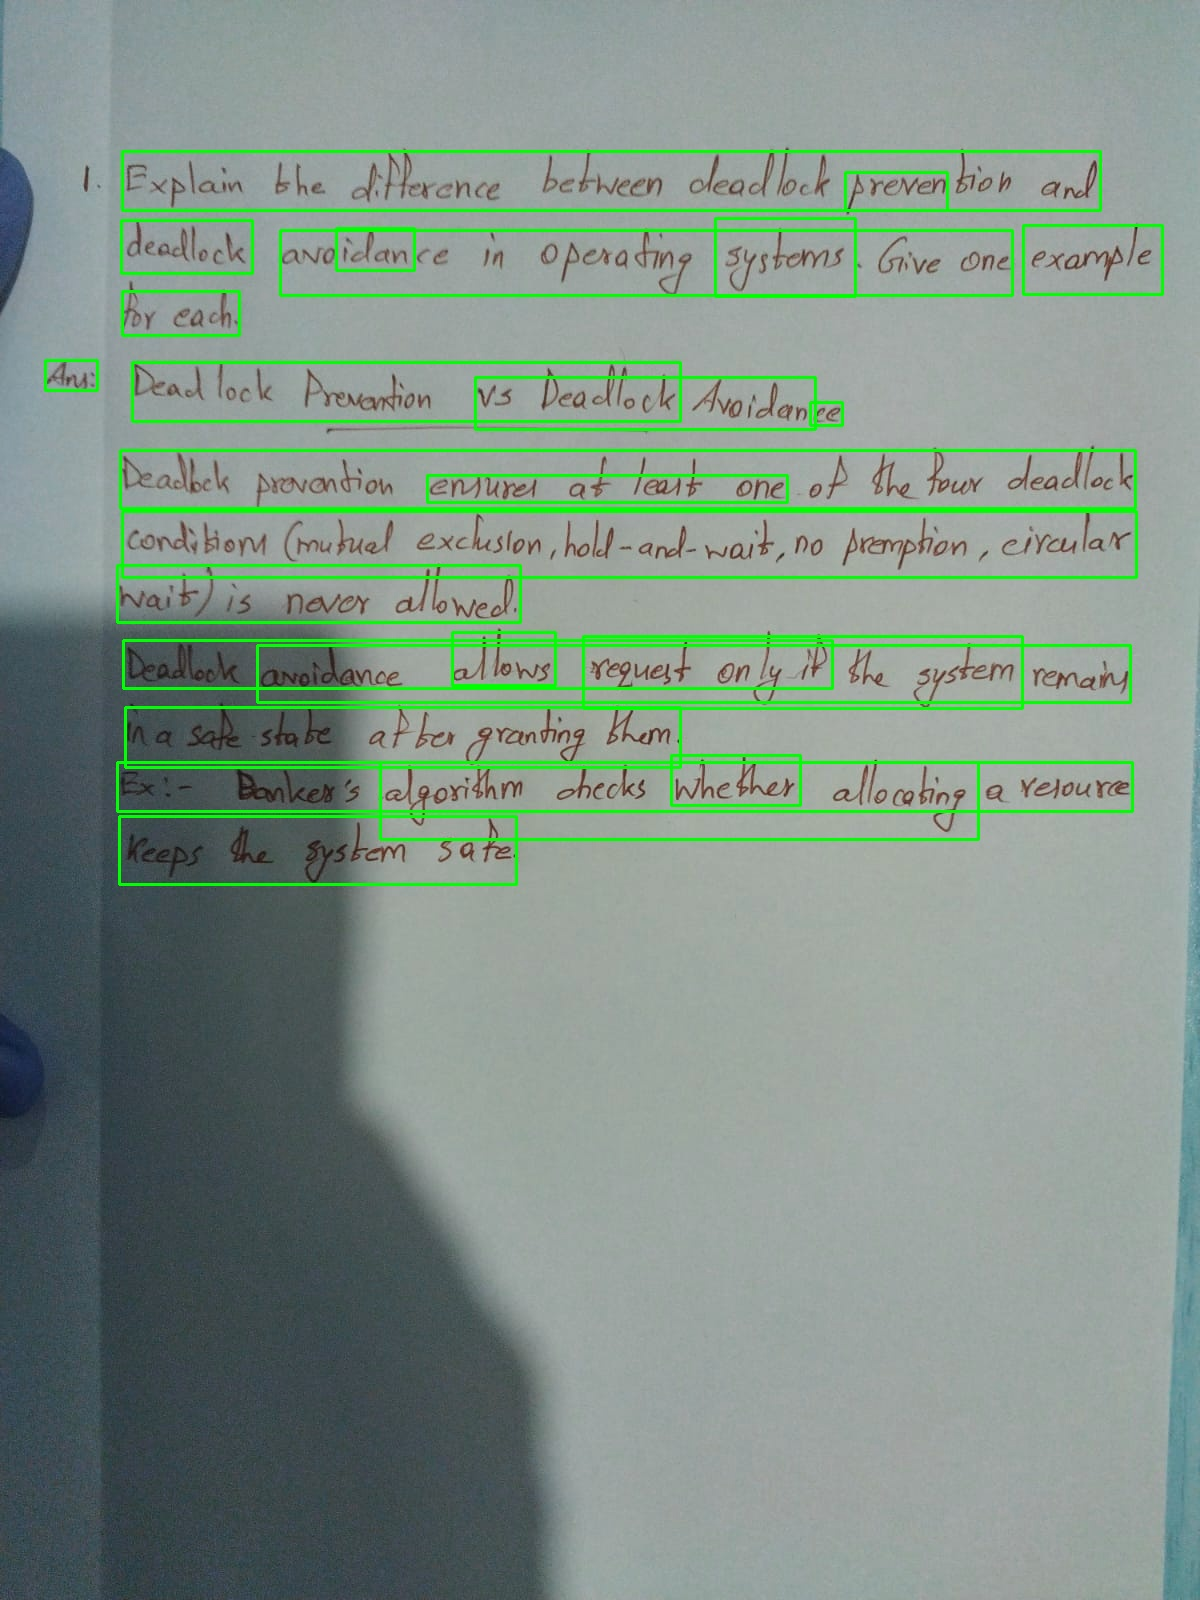
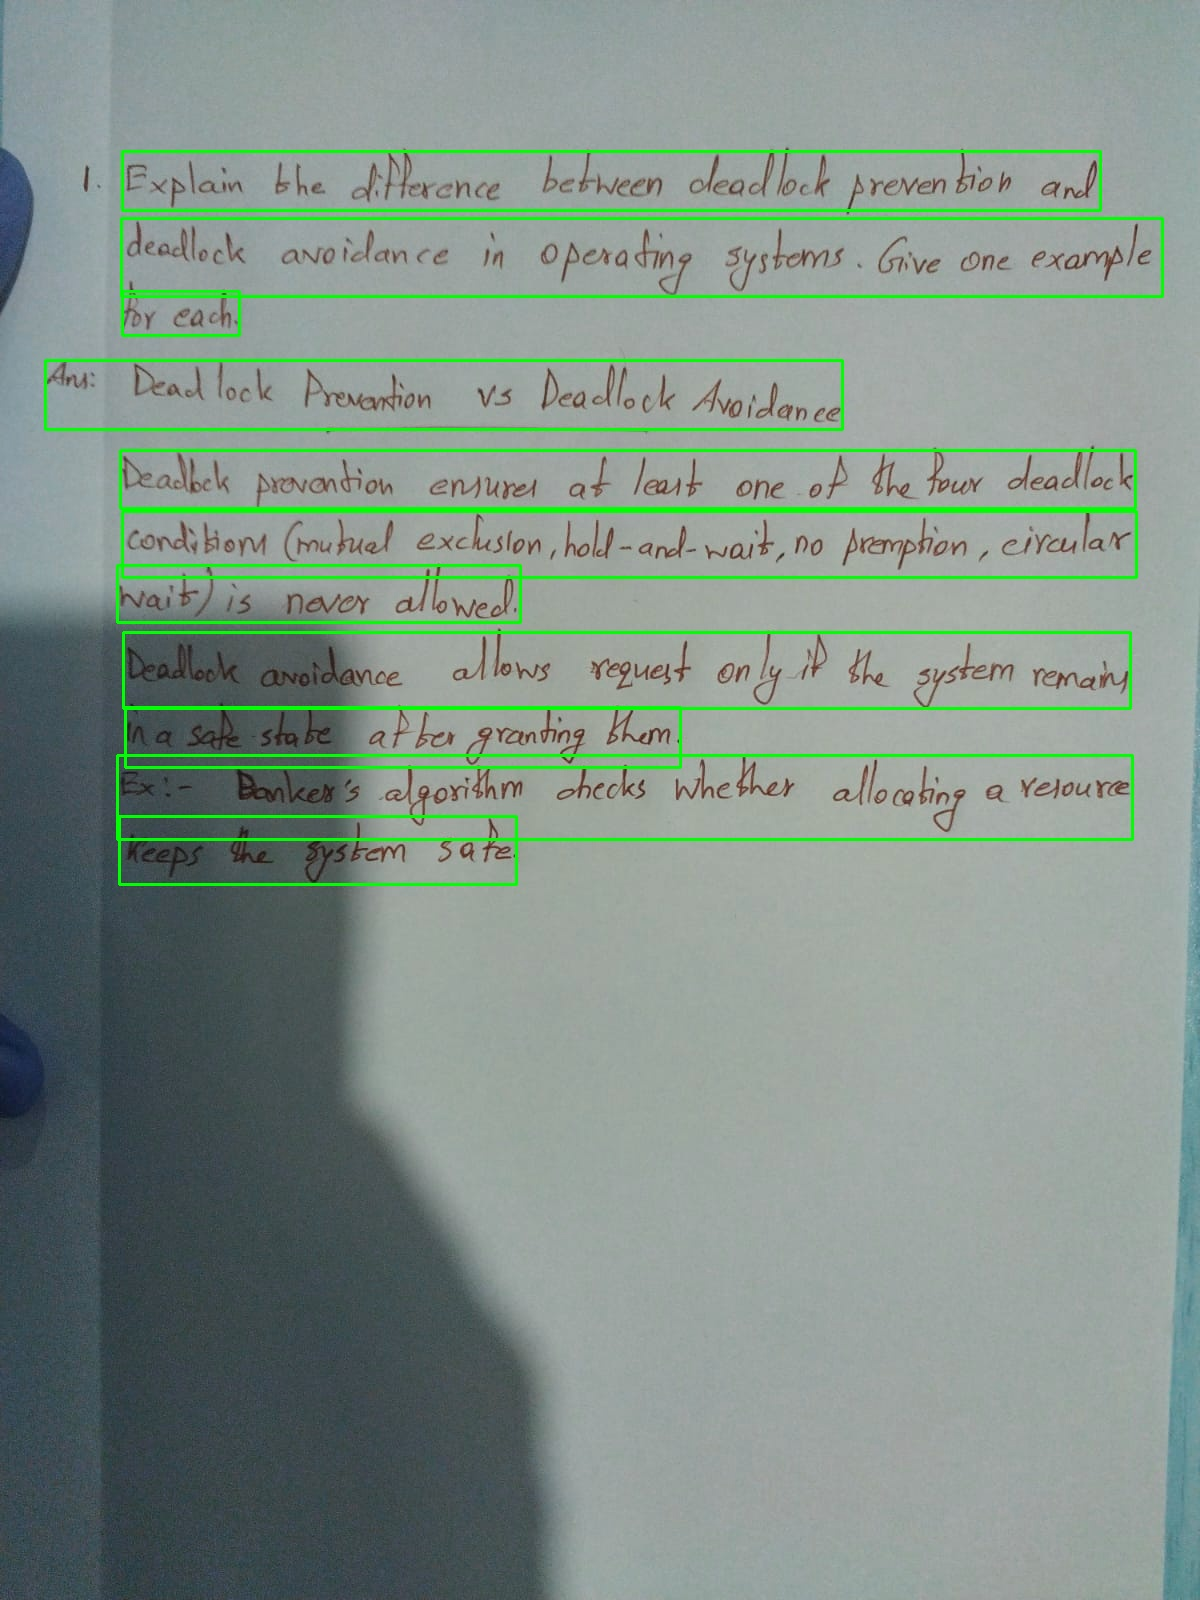
fixed merging of boxes into lines

diff --git a/postprocess/box_merger.py b/postprocess/box_merger.py
@@ -1,38 +1,27 @@
 import numpy as np
 
-def merge_boxes_into_lines(boxes, y_threshold=10):
-    """
-    Merge word-level boxes into lines based on vertical proximity.
-    """
-    # Ensure all boxes are numpy arrays
-    boxes = [np.array(b) for b in boxes]
+def merge_boxes_into_lines(boxes, overlap_ratio=0.40):
+    # Sort by center Y
+    boxes = sorted(boxes, key=lambda b: b[:, 1].mean())
 
-    # sort top-to-bottom
-    boxes = sorted(boxes, key=lambda b: b[:, 1].min())
     lines = []
-    current_line = []
+    current_line = [boxes[0]]
 
-    for box in boxes:
-        box_y = box[:,1].mean()
-        if not current_line:
-            current_line.append(box)
-            continue
-        prev_y = np.array(current_line)[:,:,1].mean()
-        if abs(box_y - prev_y) < y_threshold:
-            current_line.append(box)
+    def vertical_overlap(b1, b2):
+        y1_min, y1_max = b1[:, 1].min(), b1[:, 1].max()
+        y2_min, y2_max = b2[:, 1].min(), b2[:, 1].max()
+
+        overlap = max(0, min(y1_max, y2_max) - max(y1_min, y2_min))
+        min_height = min(y1_max - y1_min, y2_max - y2_min)
+
+        return (overlap / min_height) >= overlap_ratio
+
+    for b in boxes[1:]:
+        if vertical_overlap(current_line[-1], b):
+            current_line.append(b)
         else:
             lines.append(current_line)
-            current_line = [box]
+            current_line = [b]
 
-    if current_line:
-        lines.append(current_line)
-
-    # merge each line's boxes into a single bounding rectangle
-    merged_lines = []
-    for line in lines:
-        line = np.vstack(line)
-        x_min, y_min = line.min(axis=0)
-        x_max, y_max = line.max(axis=0)
-        merged_lines.append(np.array([[x_min,y_min],[x_max,y_min],[x_max,y_max],[x_min,y_max]]))
-
-    return merged_lines
+    lines.append(current_line)
+    return lines

diff --git a/main.py b/main.py
@@ -3,9 +3,25 @@ from detectors.craft_detector import CraftDetector
 from postprocess.box_merger import merge_boxes_into_lines
 from recognizers.trocr_recognizer import TrocrRecognizer
 from PIL import Image
+import numpy as np
 
 input = "inputs/image.jpg"
 output = "outputs/output.jpg"
+
+def draw_raw_boxes(image, boxes, save_path="outputs/raw_boxes.png"):
+    img = image.copy()
+
+    for b in boxes:
+        x_min = int(b[:, 0].min())
+        y_min = int(b[:, 1].min())
+        x_max = int(b[:, 0].max())
+        y_max = int(b[:, 1].max())
+
+        cv2.rectangle(img, (x_min, y_min), (x_max, y_max), (0, 255, 0), 2)
+
+    cv2.imwrite(save_path, img)
+    print(f"[+] Saved raw box image: {save_path}")
+
 
 if __name__ == "__main__":
     # Initialize modules
@@ -18,13 +34,20 @@ if __name__ == "__main__":
     # Detect words
     img, boxes = craft.detect(input)
 
+    # Draw raw boxes
+    draw_raw_boxes(img, boxes)
+
     # Merge words into lines
     lines = merge_boxes_into_lines(boxes)
 
     # Draw boxes and recognize text
     for line_box in lines:
-        x_min, y_min = line_box[:,0].min(), line_box[:,1].min()
-        x_max, y_max = line_box[:,0].max(), line_box[:,1].max()
+        line_array = np.concatenate(line_box, axis=0)
+        x_min, y_min = line_array[:,0].min(), line_array[:,1].min()
+        x_max, y_max = line_array[:,0].max(), line_array[:,1].max()
+
+        #x_min, y_min = line_box[:,0].min(), line_box[:,1].min()
+        #x_max, y_max = line_box[:,0].max(), line_box[:,1].max()
         cv2.rectangle(img, (int(x_min),int(y_min)), (int(x_max),int(y_max)), (0,255,0), 2)
 
         # Crop line for recognition
